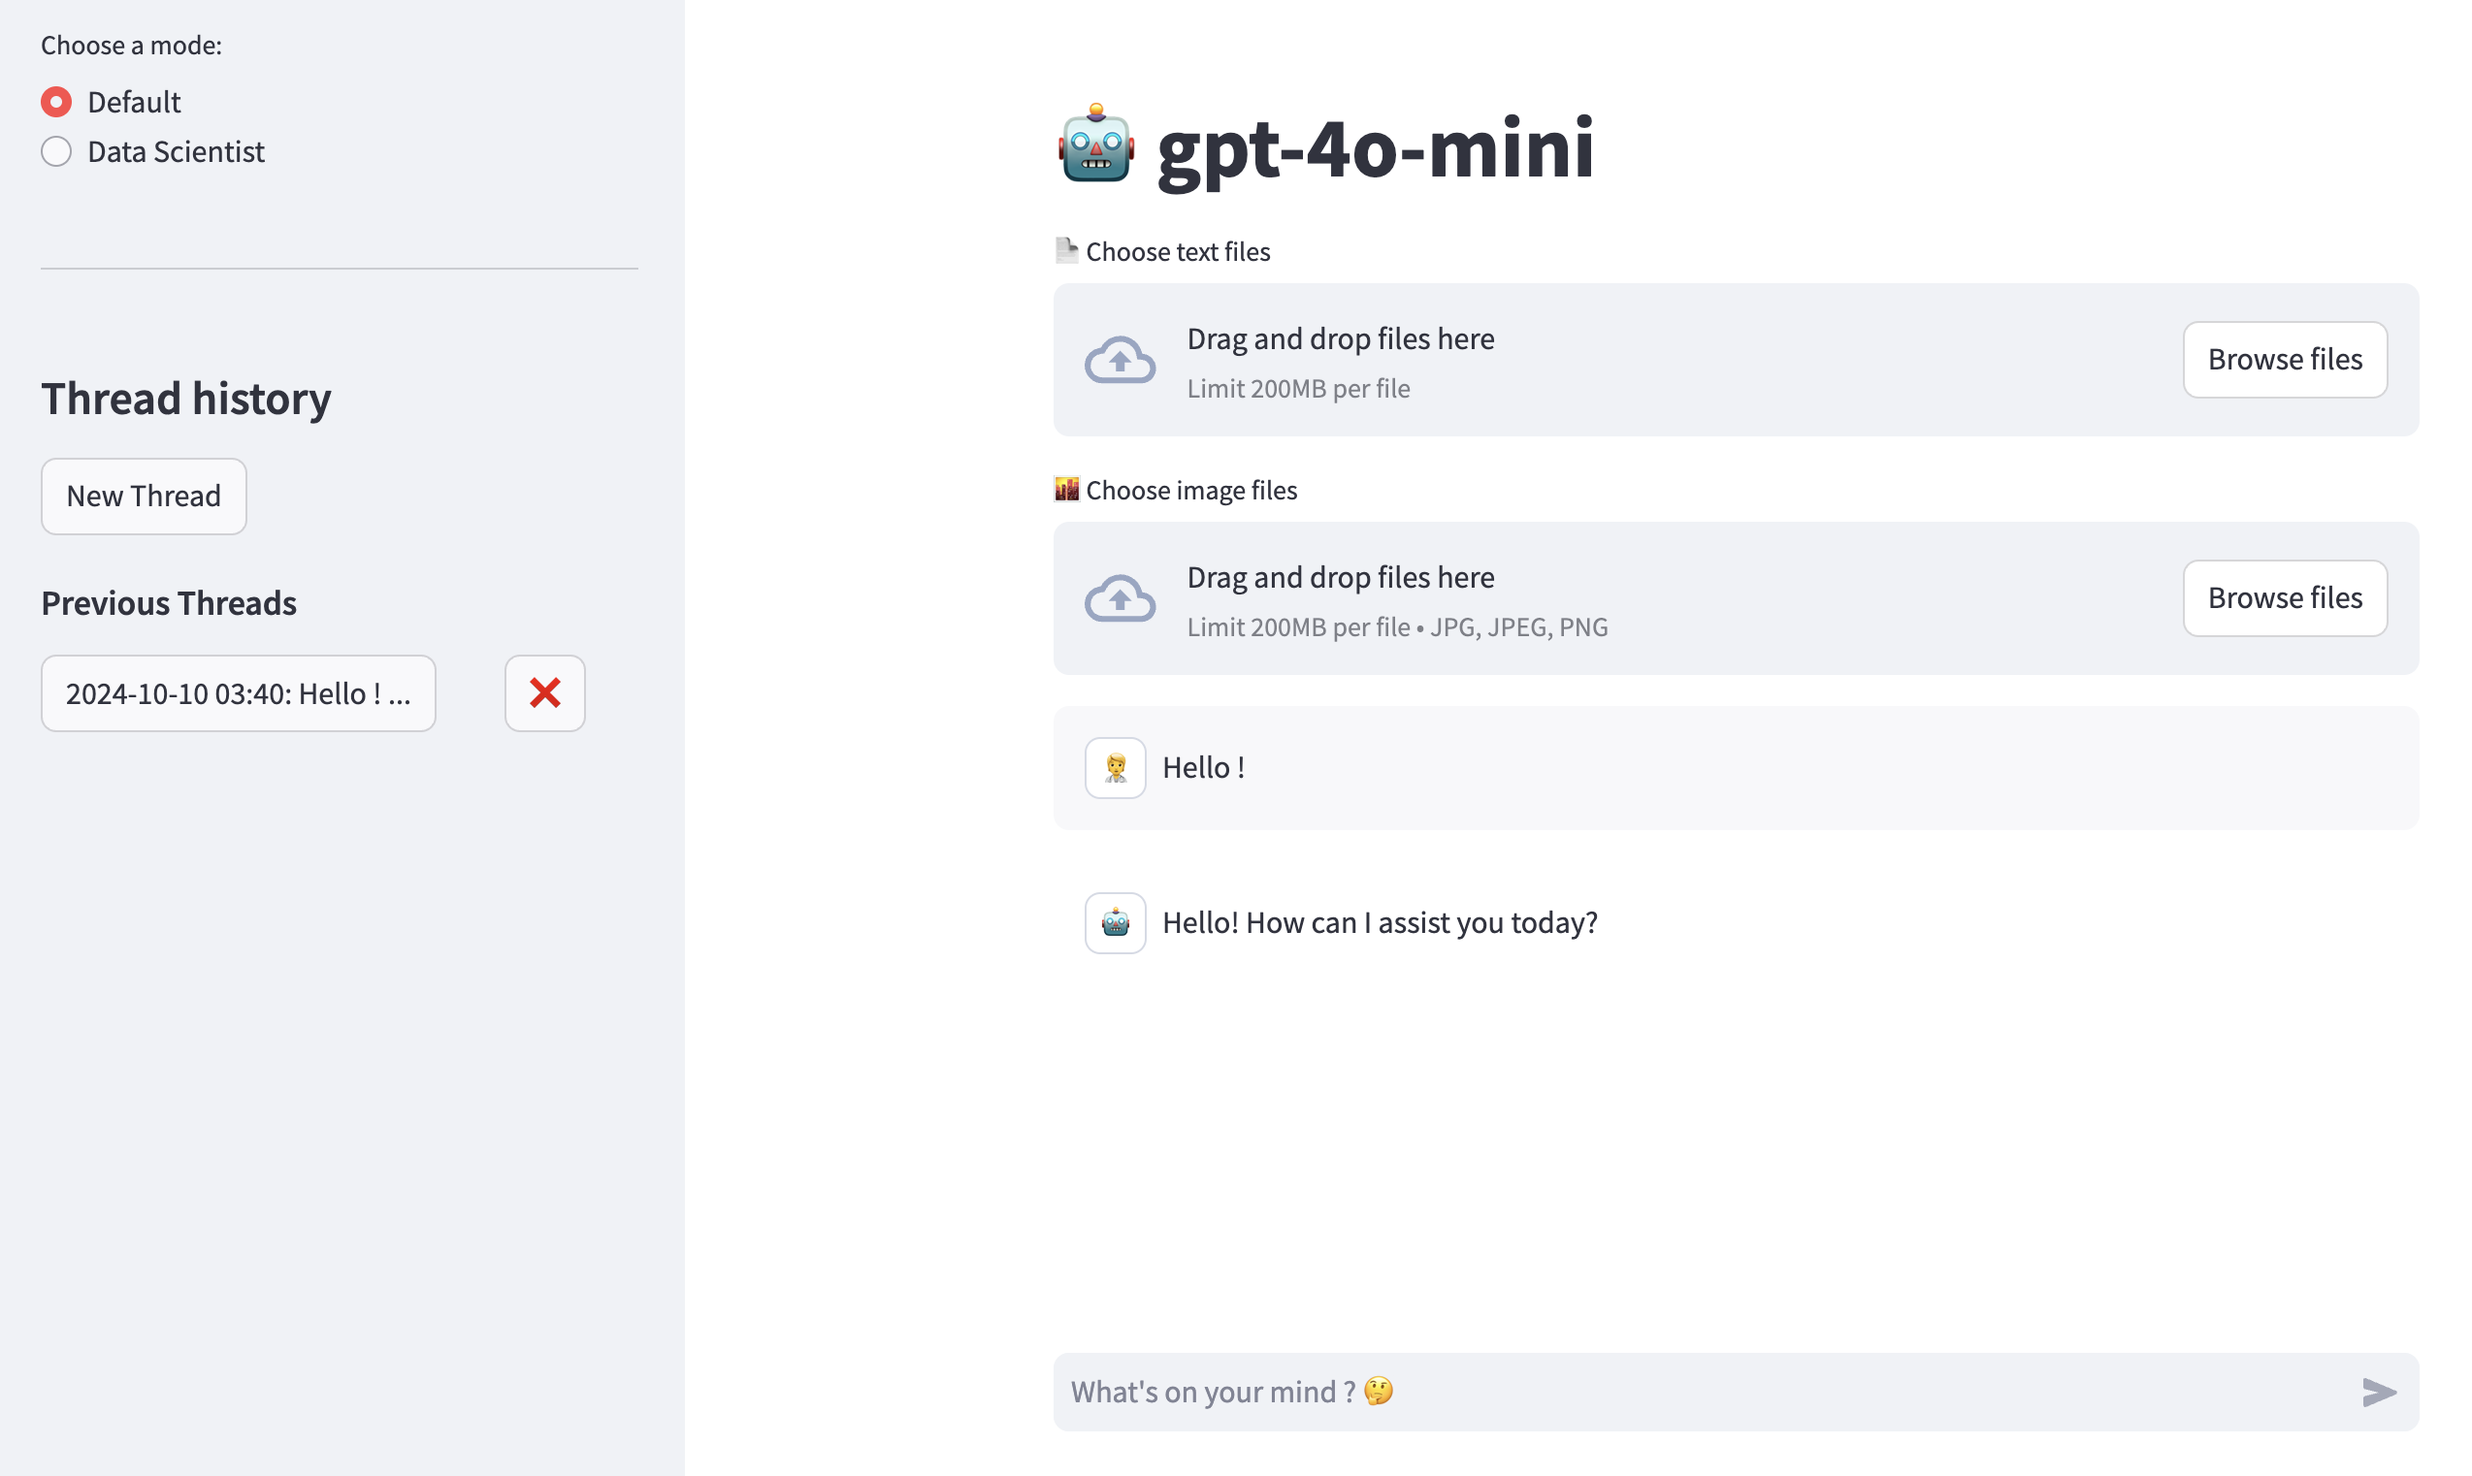
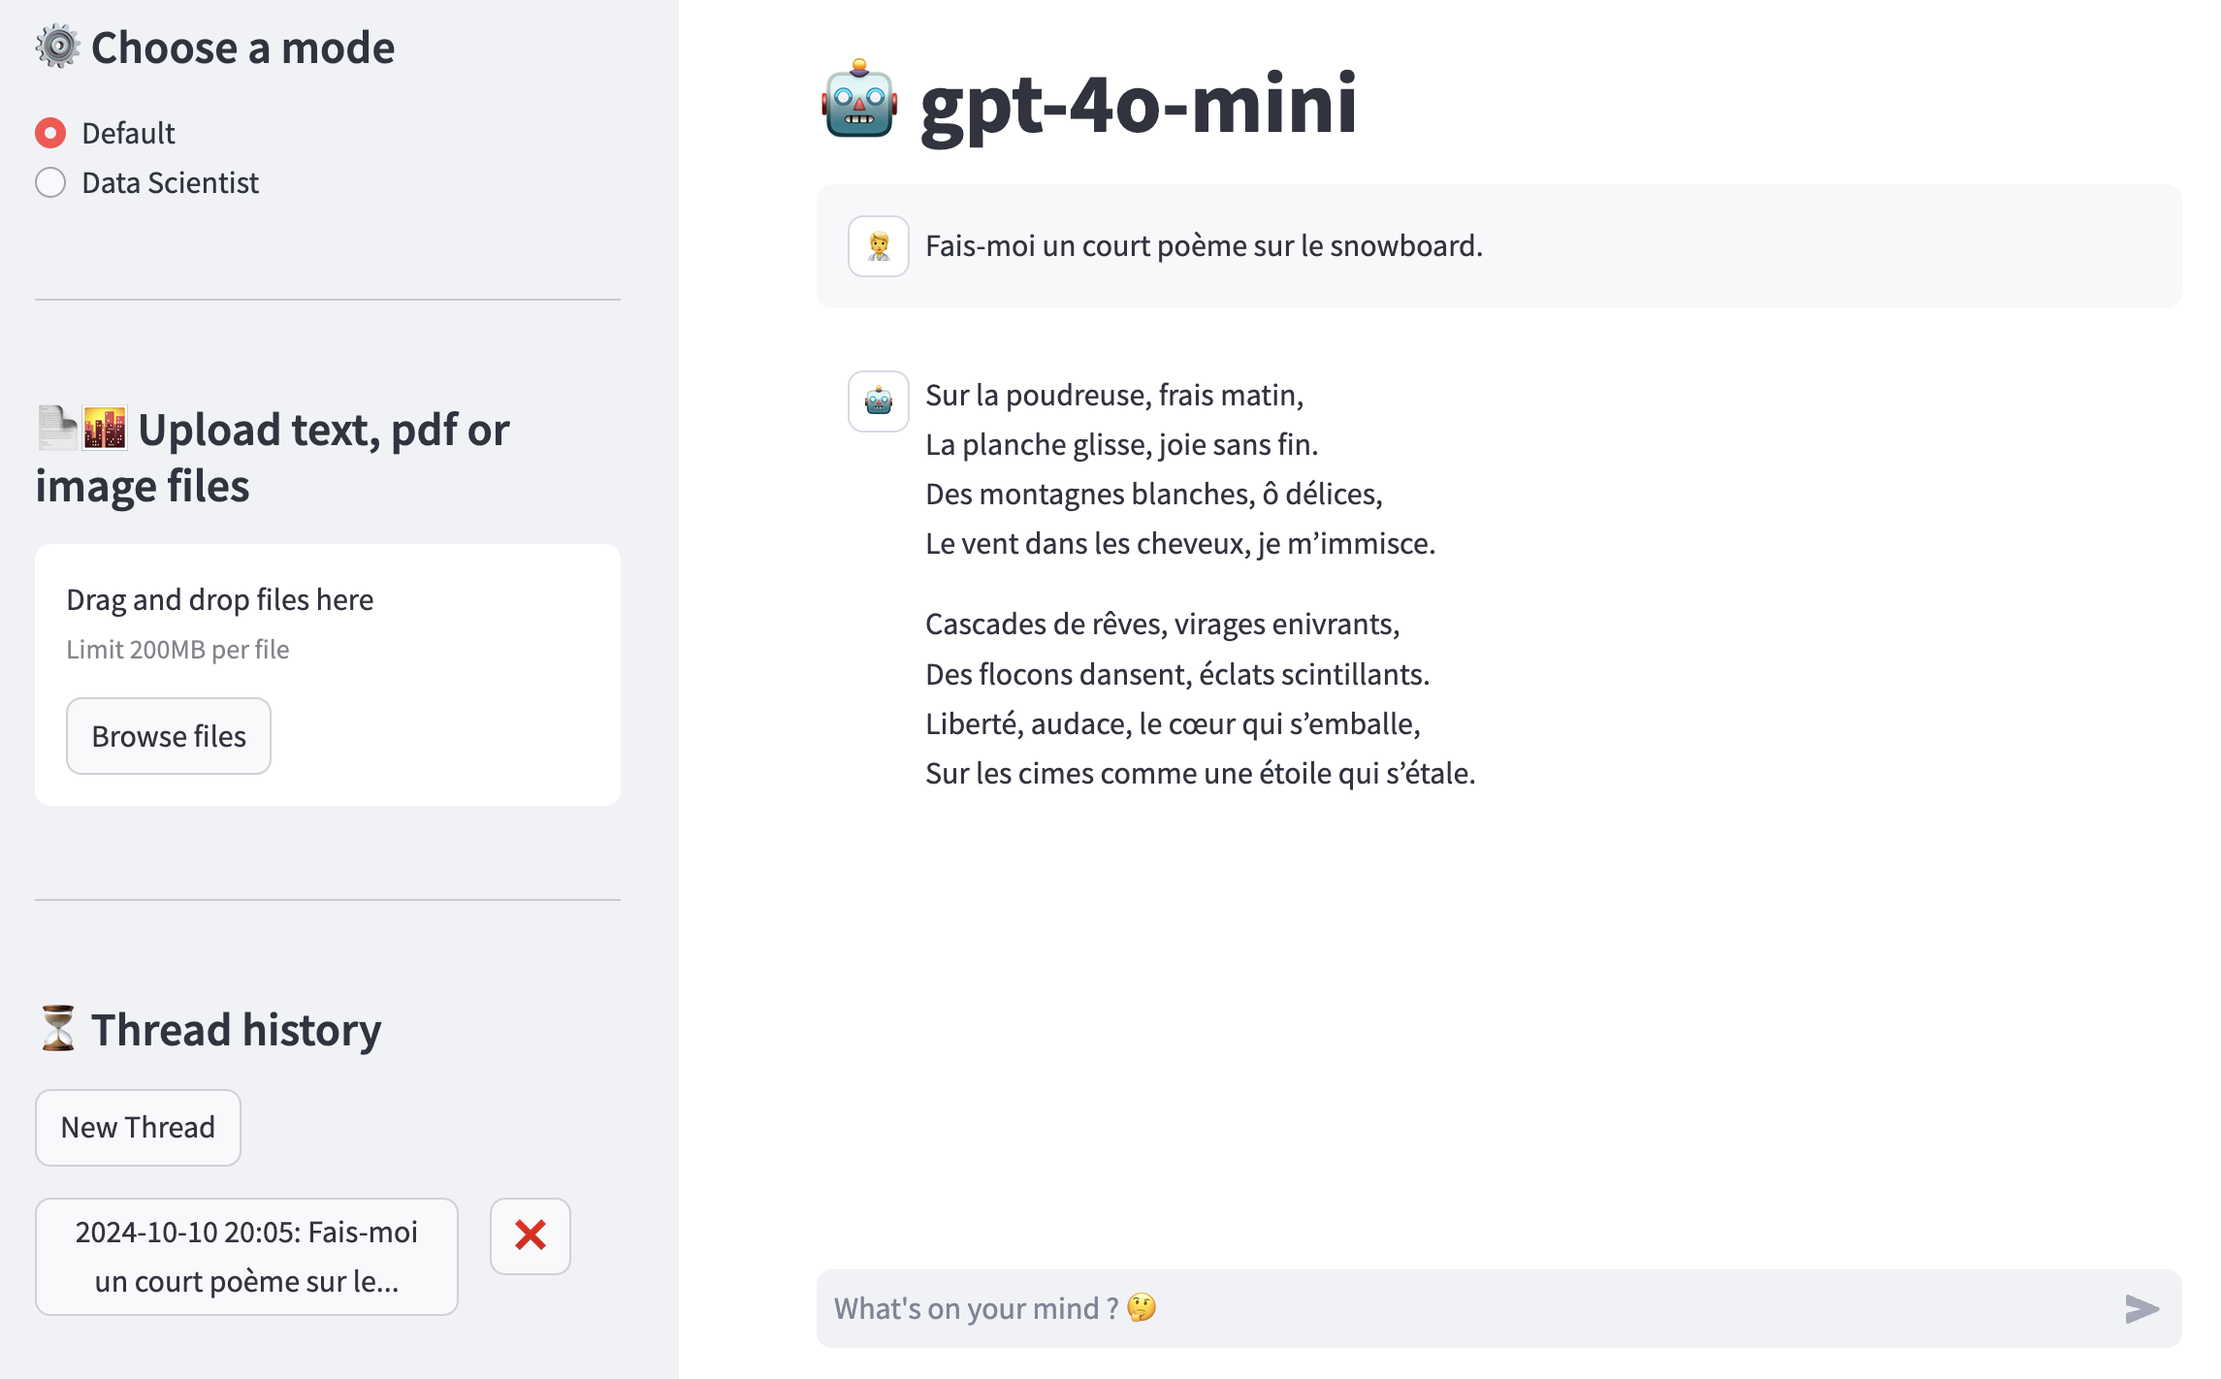
[Refactor] added some infos and changed the page title

diff --git a/main.py b/main.py
@@ -237,6 +237,12 @@ def setup_sidebar(threads: Dict[str, Dict[str, Any]]) -> Tuple[str, Dict[str, Di
             st.rerun()
         display_thread_history(threads)
 
+        st.divider()
+
+        st.caption(f'By Timmothy Dangeon, PharmD & Healthcare Machine Learning Engineer')
+        st.caption(f'Linkedin : linkedin.com/in/timdangeon')
+        st.caption(f'Github : github.com/timdgn')
+
     return mode, threads, uploaded_files
 
 
@@ -462,7 +468,7 @@ def initialize_session_state(model: str):
 
 def main():
     """Main function to run the Streamlit app."""
-    st.set_page_config(page_title="Tim LLM", page_icon="✨")
+    st.set_page_config(page_title="LLM Chat", page_icon="✨")
     api_key = st.secrets["openai_api_key"]
     model = "gpt-4o-mini"
 

diff --git a/README.md b/README.md
@@ -64,10 +64,10 @@ You can also build and run the application using Docker. Follow these steps:
 
 ## Features
 
-- **File Upload**: You can upload text files and images to use in conversations.
+- **File Upload**: You can upload text, pdf files and images to use in conversations.
 - **Conversation History**: The app saves and loads previous conversations.
 - **Thread Management**: You can create new conversation threads and navigate through existing ones.
 
 ## Contributing
 
-Contributions are welcome! Please submit a pull request or open an issue to discuss any changes you'd like to make.
+Contributions are welcome ! Please submit a pull request or open an issue to discuss any changes you'd like to make.
